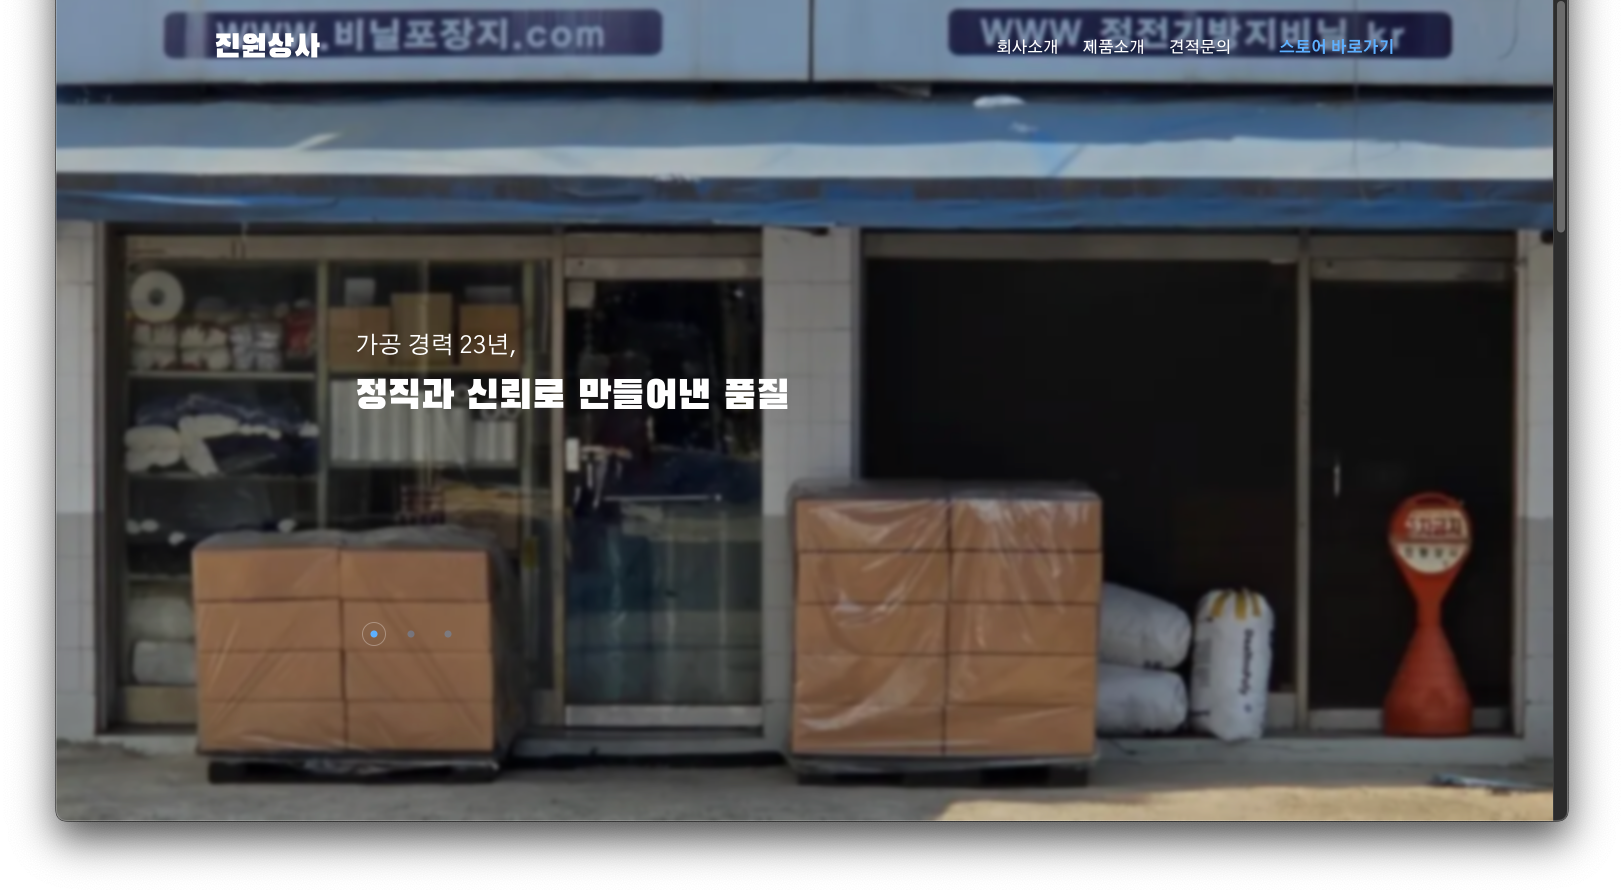
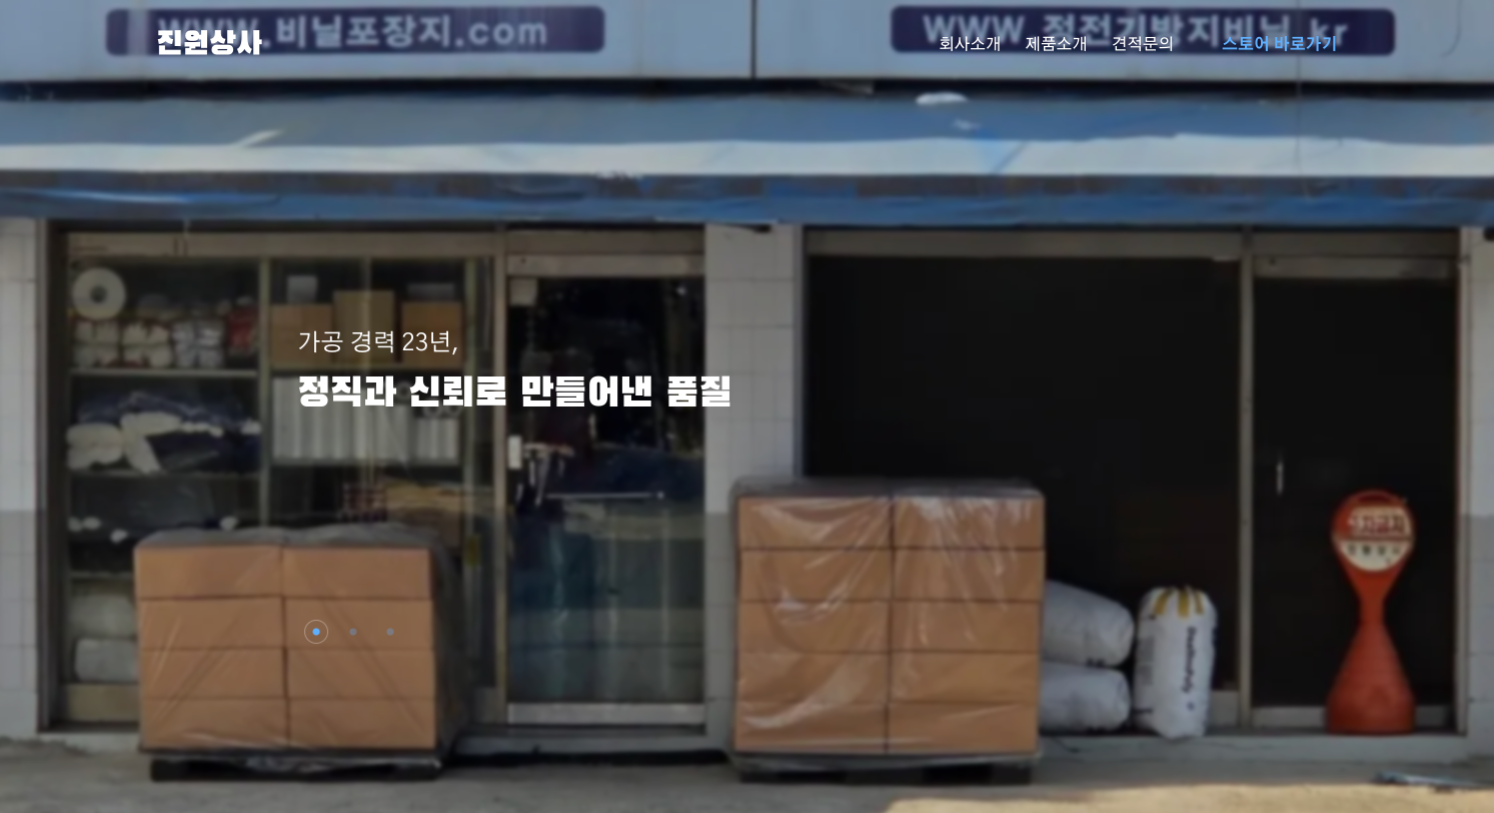
이미지 교체 및 width 조정

diff --git a/src/app/AnimatedGradient.module.scss b/src/app/AnimatedGradient.module.scss
@@ -1,8 +1,6 @@
 .container {
   position: fixed;
   width: 100%;
-  max-width: 100vw;
-  height: 100%;
   overflow-x: hidden;
   overflow-y: auto;
   box-sizing: border-box;
